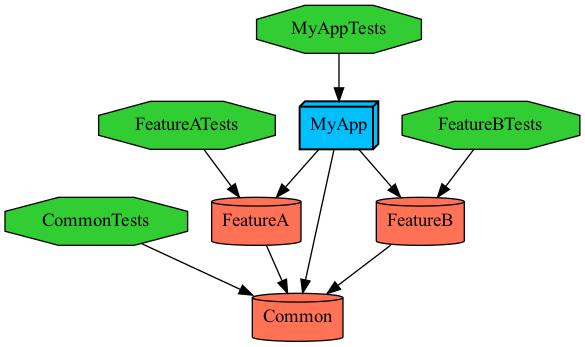
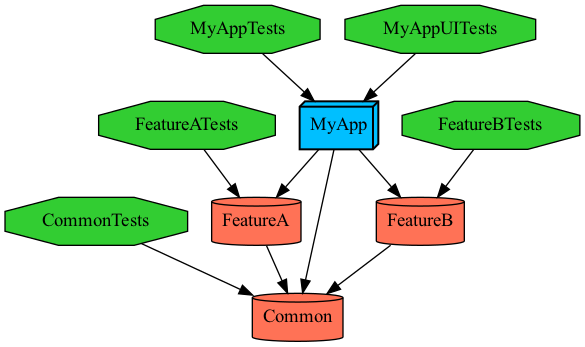
add uitest

Changed region(s): [[0.2462, 0.0, 0.9231, 0.2882], [0.6462, 0.2017, 0.6769, 0.2594], [0.6154, 0.2594, 0.6462, 0.2882]]

diff --git a/Projects/Application/UITests/MyAppUITests.swift b/Projects/Application/UITests/MyAppUITests.swift
@@ -1,0 +1,34 @@
+import XCTest
+
+final class MyAppUITests: XCTestCase {
+
+    override func setUpWithError() throws {
+        // Put setup code here. This method is called before the invocation of each test method in the class.
+
+        // In UI tests it is usually best to stop immediately when a failure occurs.
+        continueAfterFailure = false
+
+        // In UI tests it’s important to set the initial state - such as interface orientation - required for your tests before they run. The setUp method is a good place to do this.
+    }
+
+    override func tearDownWithError() throws {
+        // Put teardown code here. This method is called after the invocation of each test method in the class.
+    }
+
+    func testExample() throws {
+        // UI tests must launch the application that they test.
+        let app = XCUIApplication()
+        app.launch()
+
+        // Use XCTAssert and related functions to verify your tests produce the correct results.
+    }
+
+    func testLaunchPerformance() throws {
+        if #available(macOS 10.15, iOS 13.0, tvOS 13.0, watchOS 7.0, *) {
+            // This measures how long it takes to launch your application.
+            measure(metrics: [XCTApplicationLaunchMetric()]) {
+                XCUIApplication().launch()
+            }
+        }
+    }
+}

diff --git a/Projects/Application/Project.swift b/Projects/Application/Project.swift
@@ -32,5 +32,15 @@ let project = Project(
             resources: [],
             dependencies: [.target(name: "MyApp")]
         ),
+        .target(
+            name: "MyAppUITests",
+            destinations: .iOS,
+            product: .uiTests,
+            bundleId: "io.tuist.MyAppUITests",
+            infoPlist: .default,
+            sources: ["UITests/**"],
+            resources: [],
+            dependencies: [.target(name: "MyApp")]
+        ),
     ]
 )
